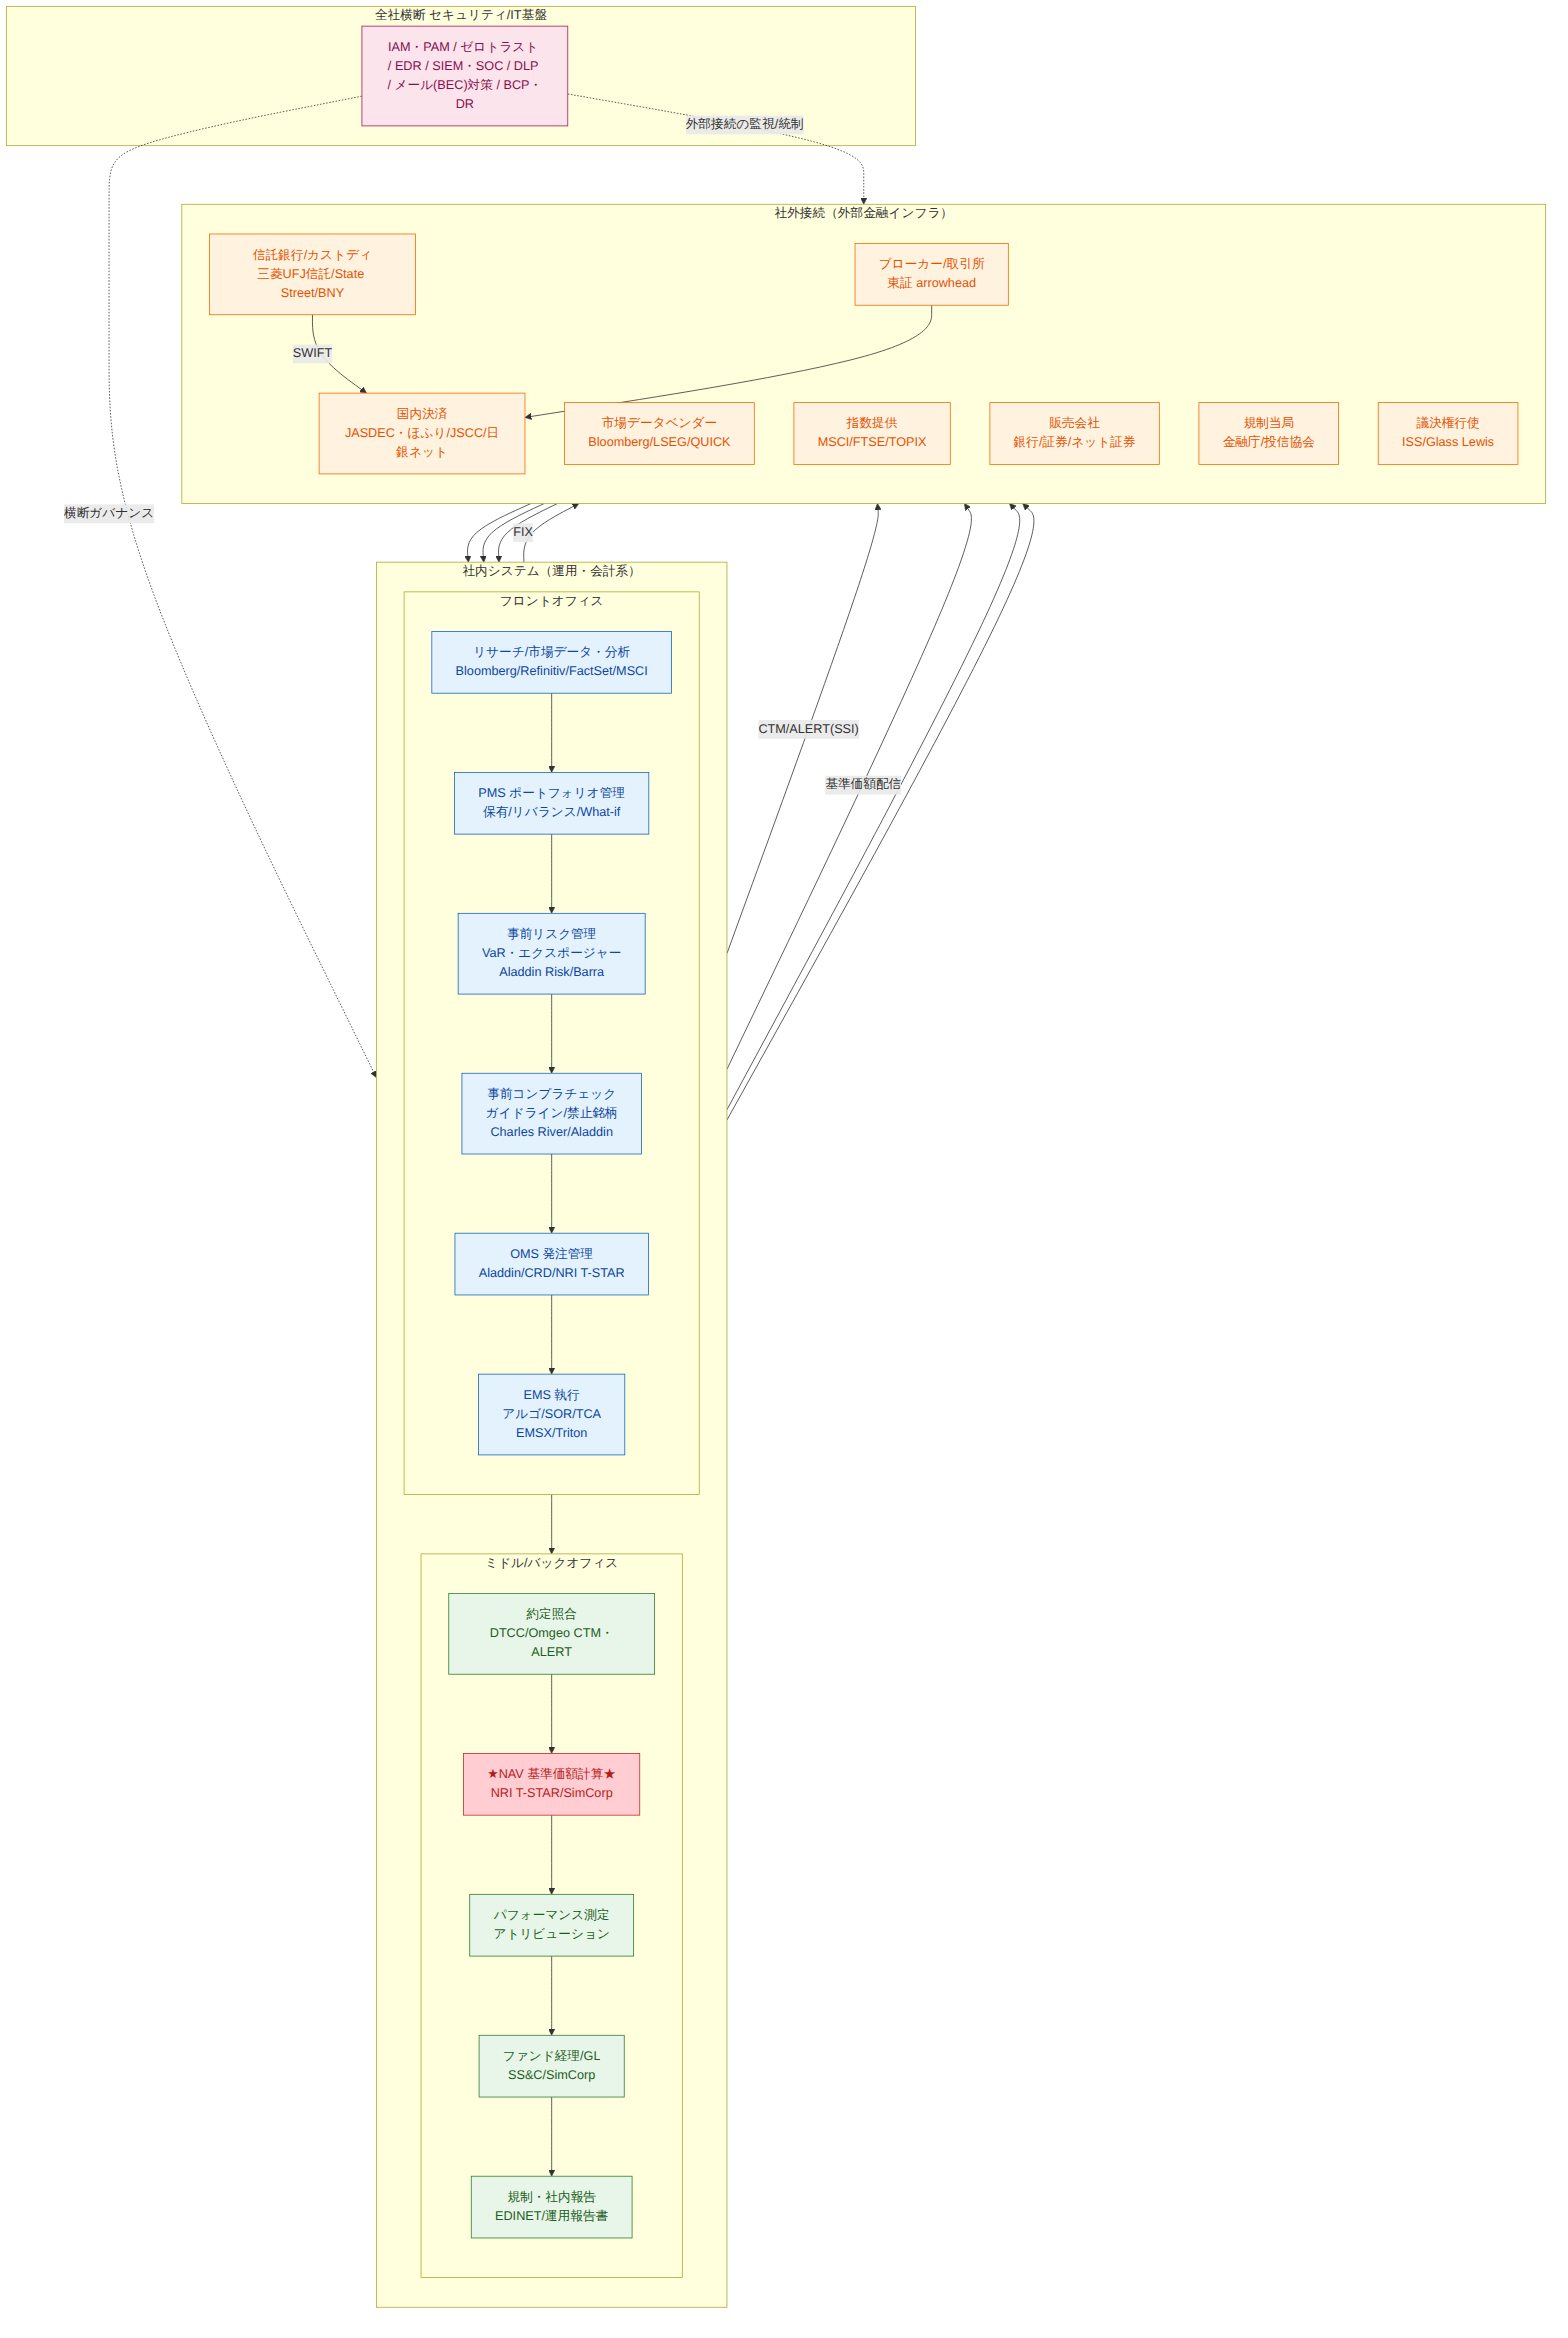
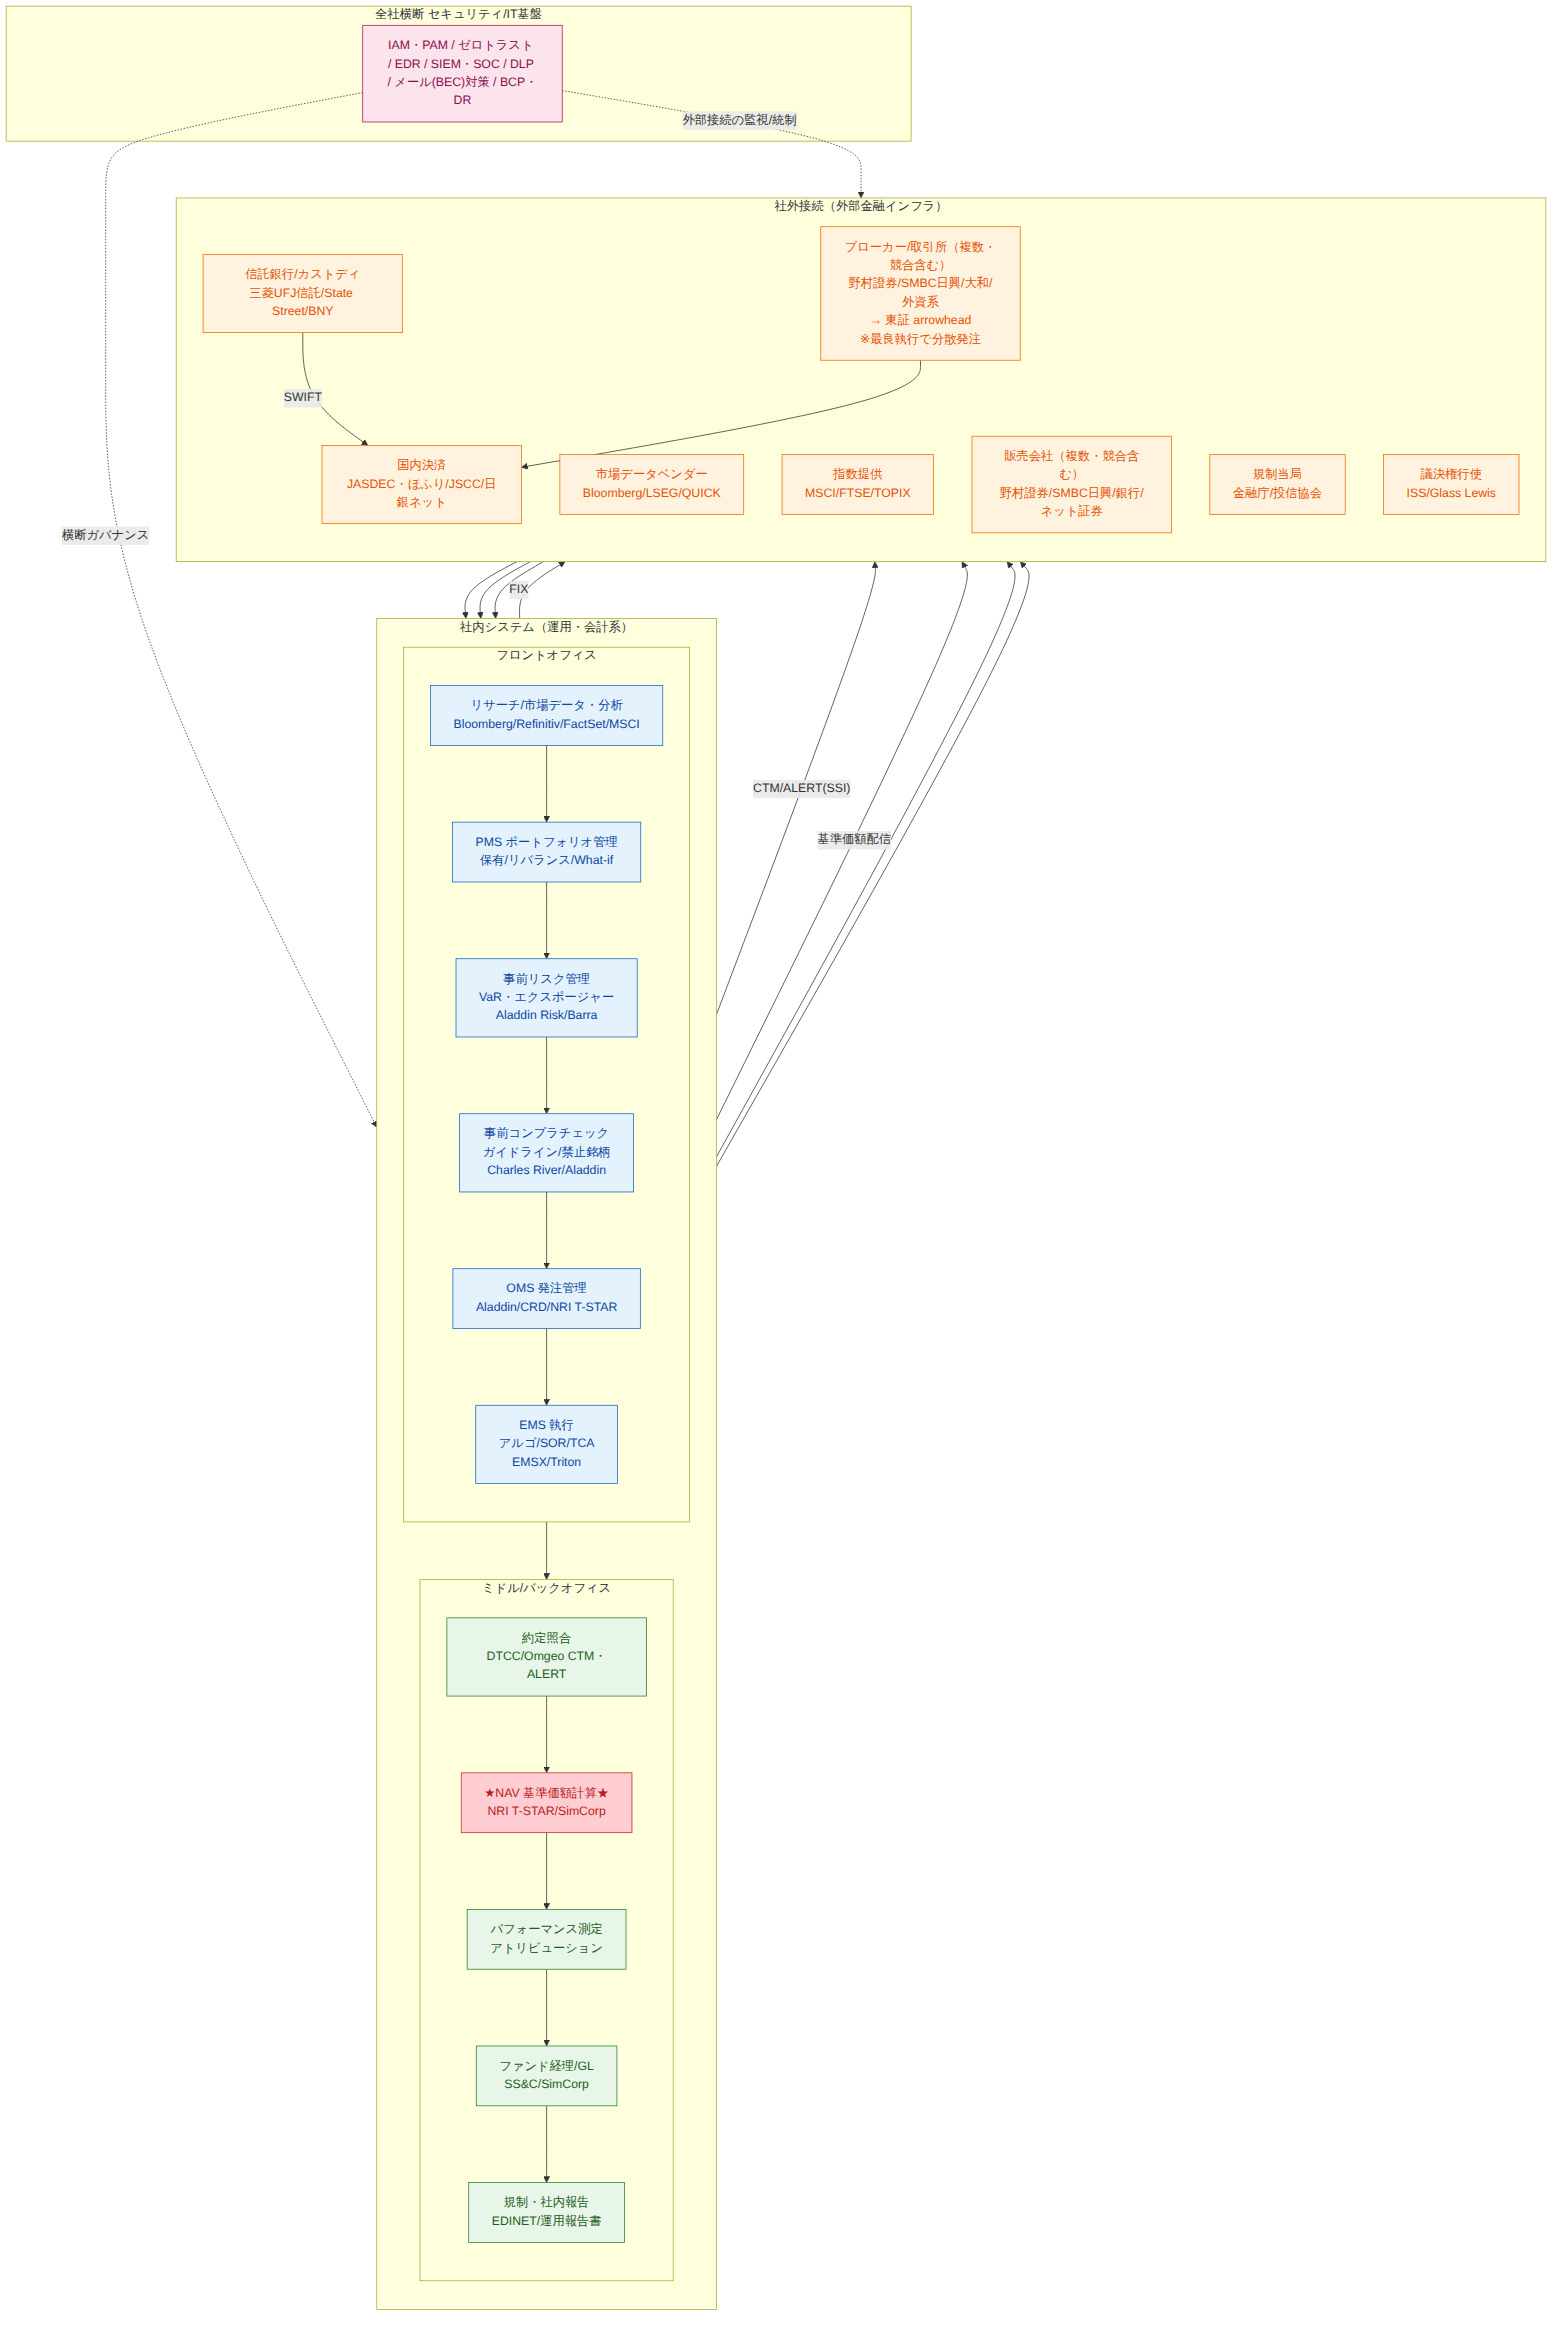
Update: 取引先の広がり(競合含む・日興等)と外部接続をレポート/図に反映
Claude-Session: https://claude.ai/code/session_01UbcVZnemWQqp35wGV62tPd

diff --git a/野村アセット_アセマネのシステム_内外調査レポート.md b/野村アセット_アセマネのシステム_内外調査レポート.md
@@ -142,5 +142,25 @@
 
 6. **逆質問：** 「基準価額（NAV）の独立検証（NAVオーバーサイト）やバックアップNAV、ランサム時の取引・決済継続のRTO/RPOはどう設計されており、重要委託先（信託・NRI等）の連鎖停止をどう訓練していますか？」
 
+## 7. 取引先の広がり（競合含む）と外部接続
+
+NAMの外部接続は**野村グループ内に閉じず、競合他社にも広がる**。これは業務ルール上むしろ必然。
+
+### なぜ競合（日興・大和・外資等）とも取引するのか
+- **最良執行義務（ベスト・エグゼキューション）**：顧客のために最良条件で売買する義務 → 発注を**野村證券に偏らせず、SMBC日興証券・大和・外資系など複数ブローカーに分散**。
+- **運用と販売の分離・独立性**：NAMは野村證券から独立。グループ会社を優遇できないため、**競合にも公平に発注/販売委託**する。
+
+### 日興（SMBC日興証券）との具体的な取引
+| 取引の種類 | 内容 |
+|---|---|
+| ブローカー（発注先） | NAMの売買注文をFIXで執行する証券会社の一つ |
+| 販売会社 | NAMの投資信託を販売する窓口になり得る |
+| リサーチ | セルサイドのアナリストレポートを参照 |
+
+### セキュリティ上の含意（重要）
+- 外部接続先（ブローカー・販売会社・データ）は**多数の企業に及び、競合も含む** → **攻撃面が広く、サプライチェーン・リスクが大きい**。
+- 各FIXセッション/データ連携ごとに**認証・暗号化・監視**が必要。接続先が増えるほど統制対象が増える。
+- 面接トーク例：「グループ会社にも競合にも**最良執行の観点で公平に接続**するため、**外部接続先が多数に及び、接続ごとのFIX認証・監視とサプライチェーン管理が重要**になる」。
+
 ---
 **注記（データ上の確からしさ）**：野村アセット/野村グループ固有事情のうち、グループCSIRT・金融ISAC加盟・NIST CSF準拠・NRIへの業務集中（投信70%超）・AWS活用・マッコーリー米欧事業買収（2025年12月完了予定、AUM拡大）は公式情報で確認済み。一方、NAMによるBlackRock Aladdin採用の有無、買収先の運用基盤の具体名・統合方針、NAM単体のCSIRT/SOC詳細は未確証のため推測扱いとし、確証のある「NRI系を中核とする運用基盤」を主たる記述として採用した。

diff --git a/asset_mgmt_system_diagram.md b/asset_mgmt_system_diagram.md
@@ -40,12 +40,12 @@ flowchart TB
 
   subgraph EXTERNAL["社外接続（外部金融インフラ）"]
     direction TB
-    BROKER["ブローカー/取引所<br/>東証 arrowhead"]
+    BROKER["ブローカー/取引所（複数・競合含む）<br/>野村證券/SMBC日興/大和/外資系<br/>→ 東証 arrowhead<br/>※最良執行で分散発注"]
     CUST["信託銀行/カストディ<br/>三菱UFJ信託/State Street/BNY"]
     SETTLE["国内決済<br/>JASDEC・ほふり/JSCC/日銀ネット"]
     DATA["市場データベンダー<br/>Bloomberg/LSEG/QUICK"]
     INDEX["指数提供<br/>MSCI/FTSE/TOPIX"]
-    DIST["販売会社<br/>銀行/証券/ネット証券"]
+    DIST["販売会社（複数・競合含む）<br/>野村證券/SMBC日興/銀行/ネット証券"]
     REG["規制当局<br/>金融庁/投信協会"]
     PROXY["議決権行使<br/>ISS/Glass Lewis"]
   end
@@ -78,6 +78,11 @@ flowchart TB
 - 🔴 **NAV（基準価額計算）**＝生命線。停止＝取引停止、改ざん＝全投資家に不当価格
 - 🟠 **社外接続**：FIX（発注）/ SWIFT（決済）/ CTM・ALERT（照合）/ データ・指数 / 販売会社 / 規制 / 議決権
 - 🩷 **横断セキュリティ基盤**：IAM・PAM / ゼロトラスト / EDR / SIEM・SOC / DLP / BCP
+
+## 取引先の広がり（競合含む）
+- NAMは**最良執行義務**と**独立性（運用と販売の分離）**から、発注も販売も**野村グループ内に偏らせず競合にも分散**する。
+- ブローカー＝**野村證券だけでなくSMBC日興・大和・外資系**にも分散発注。販売会社にも**SMBC日興等の競合**が含まれ得る。
+- → 外部接続先が**多数・競合含む**＝**攻撃面が広くサプライチェーン管理が重要**。
 
 ## 主要な接続プロトコル
 - **FIX** … EMS/OMS → ブローカー/取引所（発注・約定）
